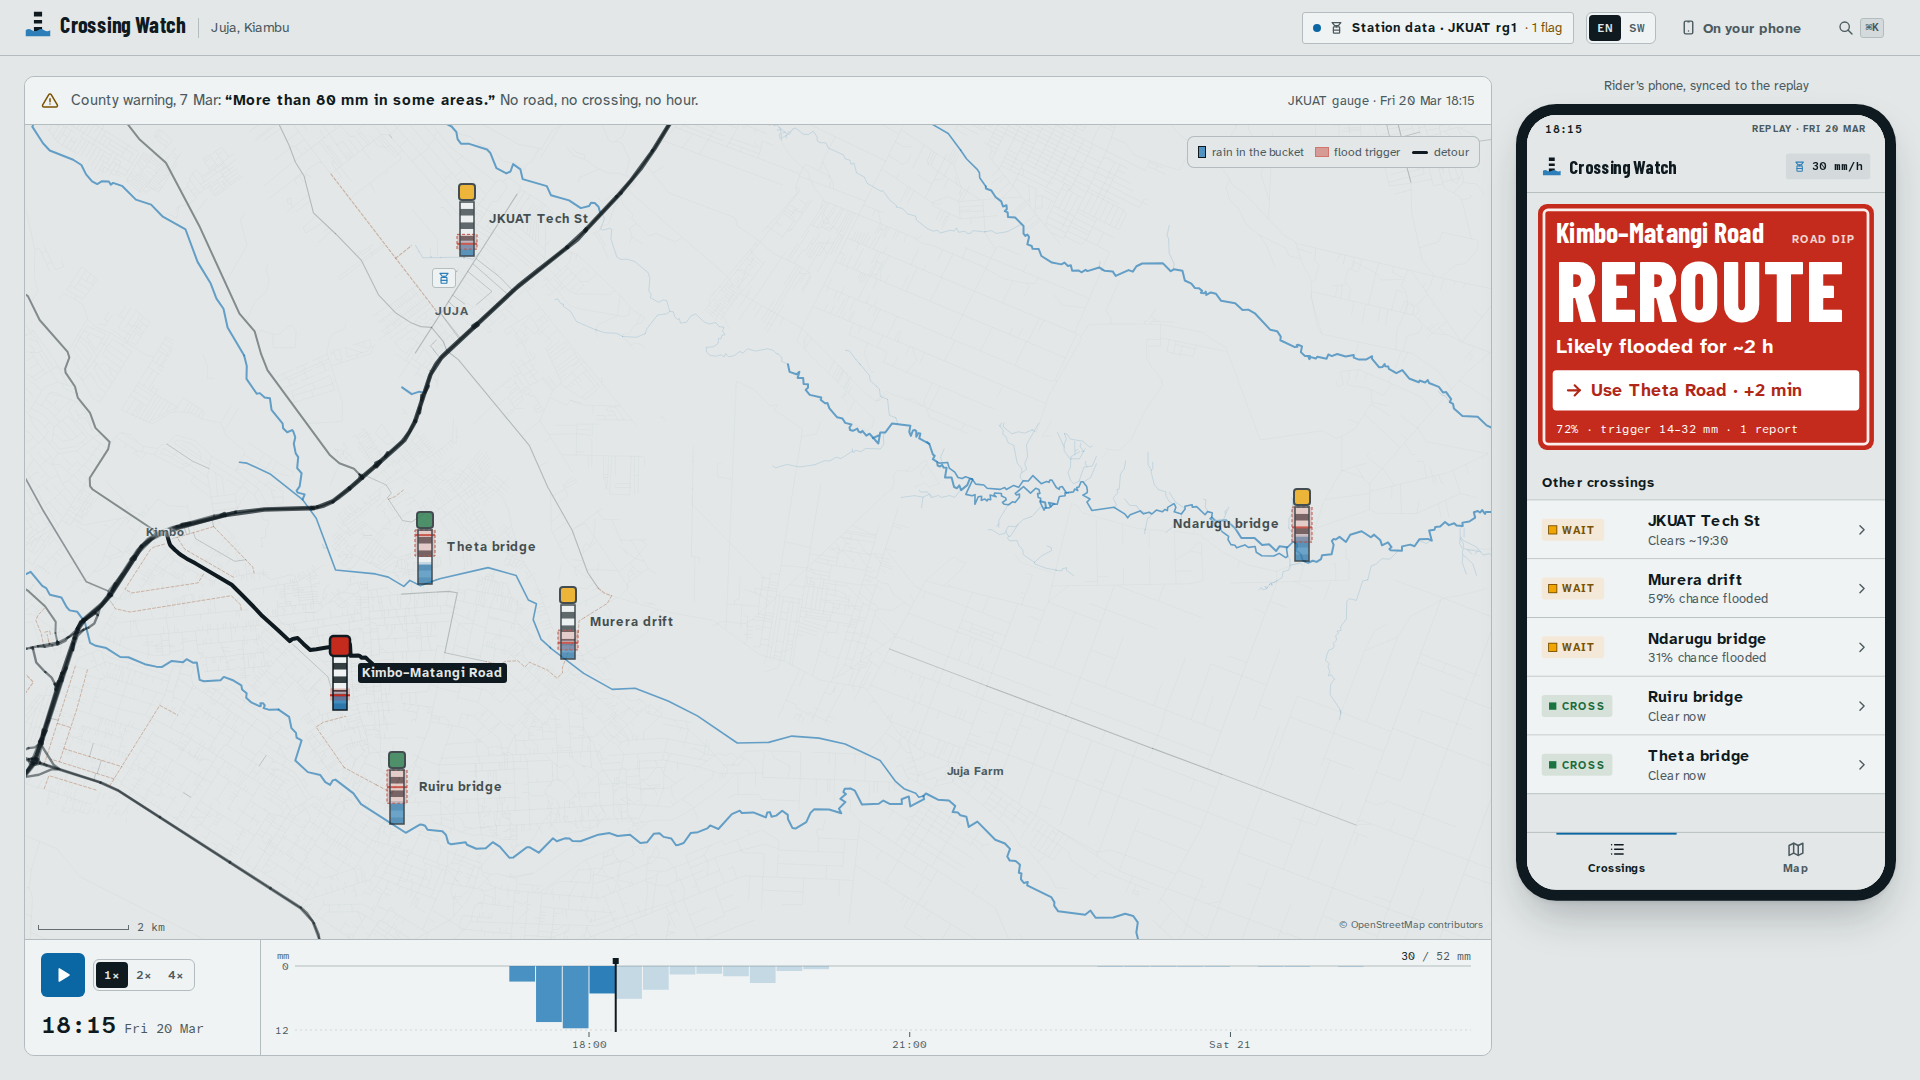
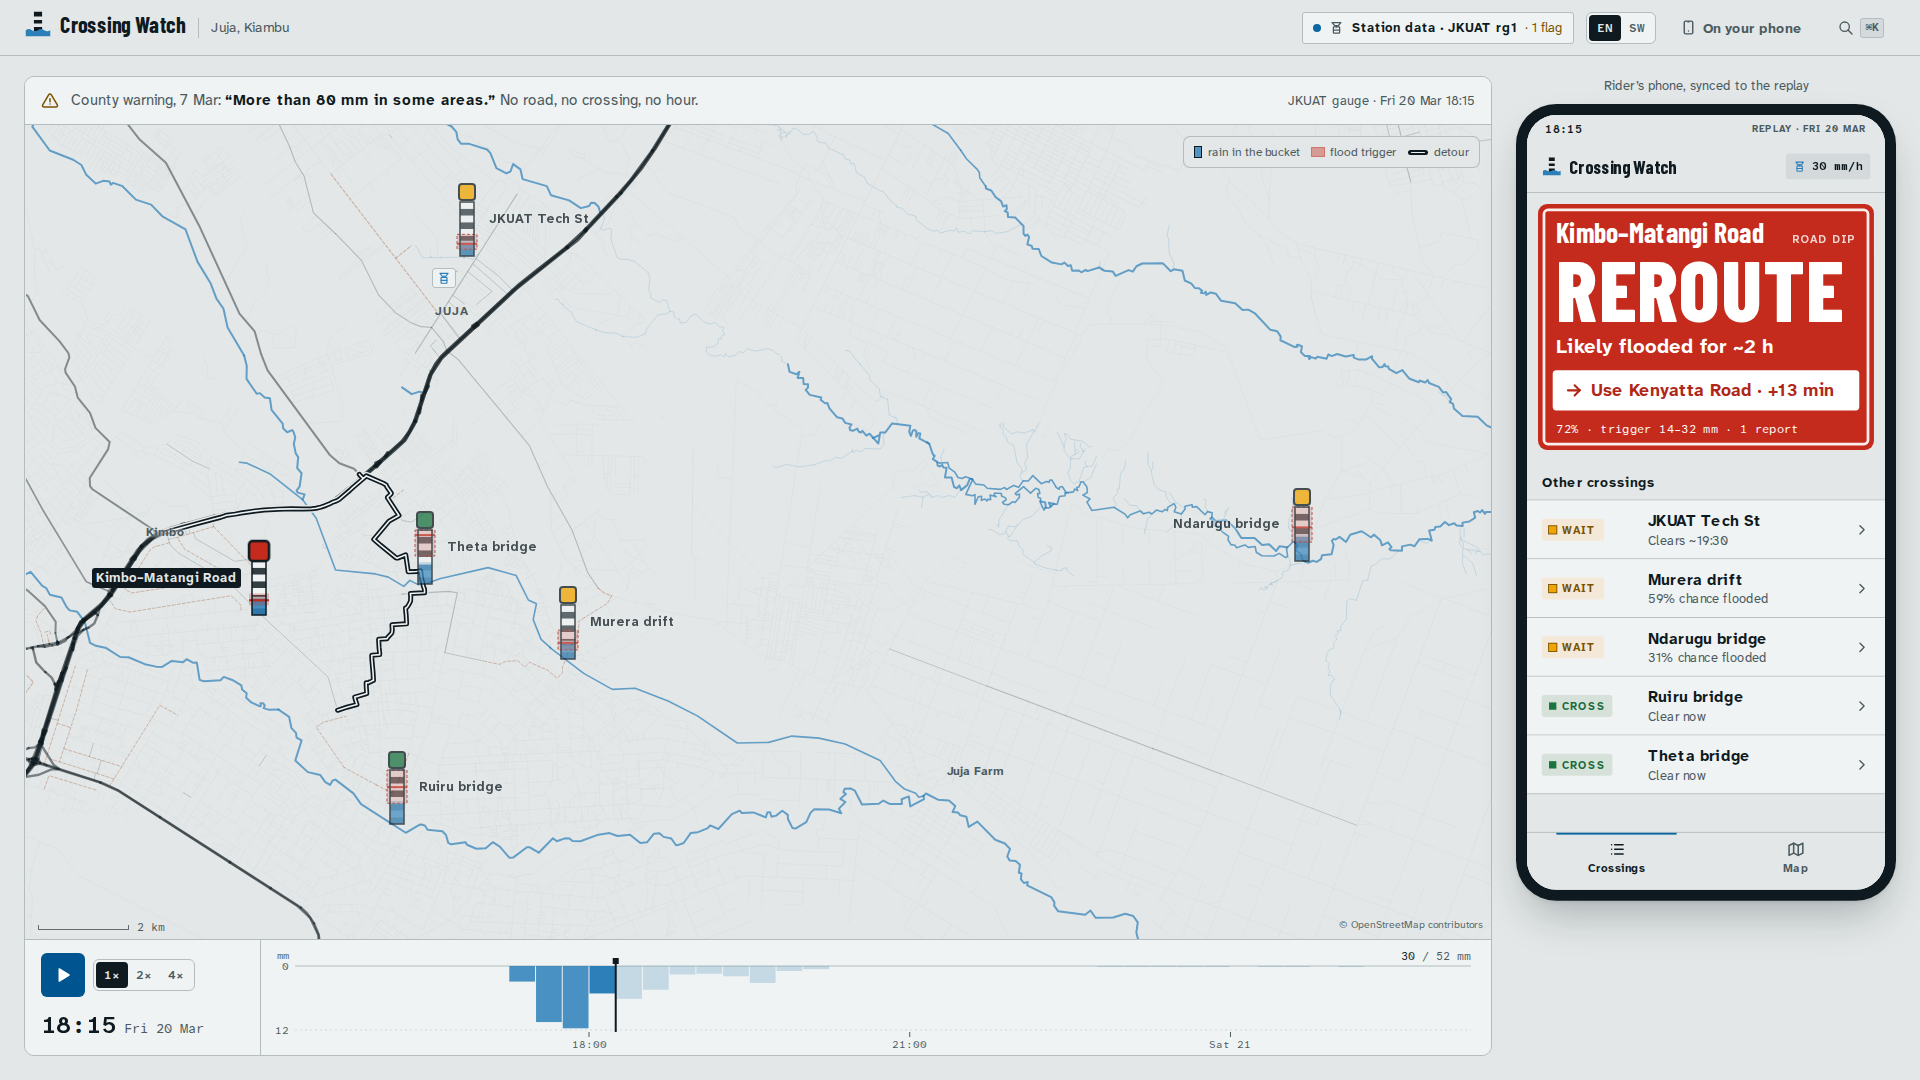
Move Kimbo–Matangi to the reported flood spot; detour via Kenyatta Road
Residents reported the road impassable just past Deliverance Church Theta
(24 Mar 2026), about 2 km from Kimbo, not at the tarmac end. The old
'Theta Road' detour ran through that spot, and no road goes by that name:
locals call Kimbo–Matangi itself the Theta road. The detour now leaves the
road entirely: Thika Road, Kenyatta Road, the Theta bridge, Judah–Magomano
Road (9.5 km, +13 min), and is offered only while that bridge is clear.
The 20 Mar calls are unchanged (REROUTE 18:00, WAIT 20:30, CROSS 21:15).

Also: build-geo takes 'through' waypoints; map labels step aside when
another post is in the way; the detour fades in instead of drawing (the
draw stopped short under non-scaling strokes). The April write-up now says
the road stayed flooded through 28 Apr, so only 21 and 26 Apr are claimed.

diff --git a/components/viz/CrossingMap.tsx b/components/viz/CrossingMap.tsx
@@ -89,11 +89,35 @@ export function CrossingMap({
   const postXY = posts.map((p) => project(p.model.crossing.lon, p.model.crossing.lat));
   const nearPost = (X: number, Y: number) => postXY.some(([px, py]) => Math.abs(px - X) < 70 && Y - py > -52 && Y - py < 16);
 
+  // crossing names go right of their post; left if another post is in the way, below if there's no room left either
+  const box = useRef<HTMLDivElement>(null);
+  const [pxW, setPxW] = useState(0);
+  useEffect(() => {
+    const el = box.current;
+    if (!el) return;
+    const ro = new ResizeObserver(([e]) => setPxW(e.contentRect.width));
+    ro.observe(el);
+    return () => ro.disconnect();
+  }, []);
+  const side = (id: string, X: number, Y: number, text: string): "right" | "left" | "below" => {
+    if ((X - v.x) / v.w > 0.8) return "left";
+    const k = pxW / v.w;
+    if (!k) return "right";
+    const labelW = text.length * 7.6 + 8;
+    const crowded = posts.some((o, j) => {
+      if (o.id === id) return false;
+      const dx = (postXY[j][0] - X) * k;
+      return dx > 0 && dx < labelW + 20 && Math.abs((Y - postXY[j][1]) * k) < 48;
+    });
+    if (!crowded) return "right";
+    return (X - v.x) * k > labelW + 16 ? "left" : "below";
+  };
+
   const scaleKm = 2;
   const barPct = ((scaleKm * UNITS_PER_KM) / v.w) * 100;
 
   return (
-    <div className="relative w-full select-none" style={{ aspectRatio: `${v.w} / ${v.h}` }}>
+    <div ref={box} className="relative w-full select-none" style={{ aspectRatio: `${v.w} / ${v.h}` }}>
       <svg viewBox={`${v.x} ${v.y} ${v.w} ${v.h}`} className="absolute inset-0 size-full" aria-hidden preserveAspectRatio="xMidYMid meet">
         <rect x={v.x} y={v.y} width={v.w} height={v.h} fill="var(--canvas)" />
         {loading ? null : (
@@ -141,9 +165,10 @@ export function CrossingMap({
                     strokeLinecap="round"
                     strokeLinejoin="round"
                     vectorEffect="non-scaling-stroke"
-                    initial={reduce ? false : { pathLength: 0 }}
-                    animate={{ pathLength: 1 }}
-                    transition={{ duration: 0.7, delay: 0.2, ease: [0.77, 0, 0.175, 1] }}
+                    // a fade, not a pathLength draw: dash lengths break under non-scaling strokes and stop the line short
+                    initial={reduce ? false : { opacity: 0 }}
+                    animate={{ opacity: 1 }}
+                    transition={{ duration: 0.4, delay: 0.2, ease: [0.23, 1, 0.32, 1] }}
                   />
                   {/* a white core no road has: this is a route, not a road */}
                   <motion.path
@@ -209,7 +234,9 @@ export function CrossingMap({
         const [X, Y] = project(c.lon, c.lat);
         const sel = p.id === selectedId;
         if (!inView(X, Y)) return null;
-        const flip = (X - v.x) / v.w > 0.8;
+        const text = sel && !compact ? c.name : (c.short ?? c.name);
+        const at = side(p.id, X, Y, text);
+        const flip = at === "left";
         return (
           <button
             key={p.id}
@@ -241,11 +268,12 @@ export function CrossingMap({
             </span>
             <span
               className={cx(
-                "mb-7 whitespace-nowrap rounded-sm px-1 text-[13px] font-bold leading-5 [text-shadow:0_0_2px_var(--canvas),0_0_3px_var(--canvas),0_0_5px_var(--canvas)]",
+                "whitespace-nowrap rounded-sm px-1 text-[13px] font-bold leading-5 [text-shadow:0_0_2px_var(--canvas),0_0_3px_var(--canvas),0_0_5px_var(--canvas)]",
+                at === "below" ? "absolute left-0 top-full mt-1" : "mb-7",
                 sel ? "bg-ink text-canvas [text-shadow:none]" : "text-ink group-hover:underline",
               )}
             >
-              {sel && !compact ? c.name : (c.short ?? c.name)}
+              {text}
             </span>
           </button>
         );

diff --git a/scripts/verify.ts b/scripts/verify.ts
@@ -66,7 +66,7 @@ if (!stationSeries) {
 
   const km1800 = W.at("kimbo-matangi", "2026-03-20T18:00");
   const via = km1800.detourIdx != null ? W.crossings.find((c) => c.id === "kimbo-matangi")!.detours[km1800.detourIdx].via : "";
-  check(km1800.call === "reroute" && via === "Theta Road", "18:00 Kimbo–Matangi: REROUTE via Theta Road", `${km1800.call} via ${via || "-"}`);
+  check(km1800.call === "reroute" && via === "Kenyatta Road", "18:00 Kimbo–Matangi: REROUTE via Kenyatta Road", `${km1800.call} via ${via || "-"}`);
   const dur = (km1800.tClearMin ?? 0) / 60;
   check(dur >= 1.5 && dur <= 2.5, "…and says it clears in about 2 h", `${dur.toFixed(2)} h`);
   check(W.range("kimbo-matangi", "2026-03-20T15:00", "2026-03-20T17:15").every((c) => c.call === "cross"), "Kimbo–Matangi is CROSS before the storm");
@@ -111,8 +111,8 @@ console.log("\n# Held-out: 27 Apr storm, triggers learned on March only, no repo
   const night = firstReroute("2026-04-27T21:00", "2026-04-28T06:00");
   check(night != null, "Kimbo–Matangi goes REROUTE on the night of 27 Apr, before The Star's 28 Apr story", hm(night));
   const before = firstReroute("2026-04-18T00:00", "2026-04-27T21:00");
-  const after = firstReroute("2026-04-28T12:00", "2026-05-01T00:00");
-  check(before == null && after == null, "…and not on the smaller April storms (21, 26 and 28 Apr)");
+  // No check after 04:15 on 28 Apr: the road stayed flooded while the model said CROSS (a stated limitation).
+  check(before == null, "…and not on the two small storms before it (21 and 26 Apr, none reported)");
 }
 
 // ---------- import ----------

diff --git a/components/landing/Landing.tsx b/components/landing/Landing.tsx
@@ -166,7 +166,7 @@ function Proof() {
         <dl className="mt-10 grid grid-cols-1 gap-x-10 gap-y-6 border-t border-line pt-8 text-[16px] leading-snug md:grid-cols-3">
           <div>
             <dt className="font-bold text-ink">Kimbo–Matangi goes red at 18:00</dt>
-            <dd className="mt-1 text-ink-muted">&ldquo;Likely flooded for two and a half hours. Use Theta Road.&rdquo; At 20:30, right on time, the call eases to wait; by 21:15 it&rsquo;s cross.</dd>
+            <dd className="mt-1 text-ink-muted">&ldquo;Likely flooded for two and a half hours. Use Kenyatta Road.&rdquo; At 20:30, right on time, the call eases to wait; by 21:15 it&rsquo;s cross.</dd>
           </div>
           <div>
             <dt className="font-bold text-ink">The campus culvert drains first</dt>
@@ -272,8 +272,8 @@ function Honest() {
   ];
   const unknown = [
     "Triggers start from a single storm. Wide, dashed bands on screen say so, and every tap narrows them.",
-    "The exact flooded spot on Kimbo–Matangi, and the route riders call Theta Road, still need a rider to pin them.",
-    "Drain times are rough. After that April storm it said cross at 04:15, but the road was still waterlogged later that day.",
+    "The flooded spot on Kimbo–Matangi comes from residents' posts, and the detour is the shortest dry route on OpenStreetMap. Riders still need to confirm both.",
+    "Drain times are rough. After that April storm it said cross at 04:15, but the road stayed flooded through 28 April.",
     "No rider survey yet. The Kiswahili copy needs a native speaker's review.",
   ];
   return (

diff --git a/scripts/build-geo.ts b/scripts/build-geo.ts
@@ -295,7 +295,19 @@ interface CrossingCfg {
   id: string;
   lat: number;
   lon: number;
-  detours: { via: string; crossingId?: string; extraMin: number; path?: [number, number][]; computed?: boolean; from?: Pt; to?: Pt; avoidM?: number; km?: number }[];
+  detours: {
+    via: string;
+    crossingId?: string;
+    extraMin: number;
+    path?: [number, number][];
+    computed?: boolean;
+    from?: Pt;
+    to?: Pt;
+    /** waypoints the detour must pass, e.g. a bridge riders would use */
+    through?: Pt[];
+    avoidM?: number;
+    km?: number;
+  }[];
   [k: string]: unknown;
 }
 
@@ -349,7 +361,11 @@ async function main() {
       const a = nearestNode(graph, det.from, avoid);
       const b = nearestNode(graph, det.to, avoid);
       const direct = dijkstra(graph, a, b);
-      const around = dijkstra(graph, a, b, avoid);
+      const stops = [a, ...(det.through ?? []).map((p) => nearestNode(graph, p, avoid)), b];
+      const legs = stops.slice(1).map((s, k) => dijkstra(graph, stops[k], s, avoid));
+      const around = legs.every(Boolean)
+        ? { nodes: legs.flatMap((l, k) => (k ? l!.nodes.slice(1) : l!.nodes)), ways: legs.flatMap((l) => l!.ways), meters: legs.reduce((m, l) => m + l!.meters, 0) }
+        : null;
       if (!direct || !around) {
         console.warn(`no detour for ${c.id} via ${det.via}`);
         continue;

diff --git a/app/opengraph-image.tsx b/app/opengraph-image.tsx
@@ -4,7 +4,7 @@ import { ImageResponse } from "next/og";
 
 export const size = { width: 1200, height: 630 };
 export const contentType = "image/png";
-export const alt = "Crossing Watch: Kimbo–Matangi Road, REROUTE, likely flooded for about 2 hours, use Theta Road";
+export const alt = "Crossing Watch: Kimbo–Matangi Road, REROUTE, likely flooded for about 2 hours, use Kenyatta Road";
 
 const font = (f: string) => readFile(join(process.cwd(), "node_modules/@fontsource", f));
 
@@ -35,7 +35,7 @@ export default async function Image() {
             <span style={{ fontFamily: "Barlow", fontSize: 50 }}>Kimbo–Matangi Road</span>
             <span style={{ fontFamily: "Barlow", fontSize: 128, lineHeight: 0.9, marginTop: 8 }}>REROUTE</span>
             <span style={{ fontSize: 34, marginTop: 14, fontWeight: 700 }}>Likely flooded for ~2 h</span>
-            <div style={{ display: "flex", marginTop: 22, background: "#fff", color: "#B02617", borderRadius: 8, padding: "14px 20px", fontSize: 32, fontWeight: 700 }}>→ Use Theta Road</div>
+            <div style={{ display: "flex", marginTop: 22, background: "#fff", color: "#B02617", borderRadius: 8, padding: "14px 20px", fontSize: 32, fontWeight: 700 }}>→ Use Kenyatta Road</div>
           </div>
         </div>
       </div>

diff --git a/lib/model/model.test.ts b/lib/model/model.test.ts
@@ -106,7 +106,7 @@ describe("decisions", () => {
   const rain = [...new Array(12).fill(0), 2, 5, 9, 12, 10, 8, 5, 3, 2, 1, ...new Array(40).fill(0)];
   const s = series({ A: rain });
   const clean = qc(s);
-  const X = crossing({ detours: [{ via: "Theta Road", crossingId: "theta", extraMin: 7 }] });
+  const X = crossing({ detours: [{ via: "Kenyatta Road", crossingId: "theta", extraMin: 7 }] });
   const THETA = crossing({ id: "theta", name: "Theta", kind: "high-bridge", halfLifeH: 3, priorMedian: 90 });
   const reports: Report[] = [{ id: "r", crossingId: "x", t: T0 - 86_400_000, status: "flooded", source: "seed" }];
 
@@ -116,7 +116,7 @@ describe("decisions", () => {
     expect(calls.slice(0, 12).every((c) => c === "cross")).toBe(true);
     const k = calls.indexOf("reroute");
     expect(k).toBeGreaterThan(12);
-    expect(X.detours[m.x.calls[k].detourIdx!].via).toBe("Theta Road");
+    expect(X.detours[m.x.calls[k].detourIdx!].via).toBe("Kenyatta Road");
     expect(m.theta.calls[k].call).toBe("cross");
     expect(calls.at(-1)).toBe("cross"); // clears again
   });

diff --git a/components/landing/CallRibbons.tsx b/components/landing/CallRibbons.tsx
@@ -31,7 +31,7 @@ export function useLandingWorld() {
 
 const ROWS = [
   { id: "jkuat-culvert", note: "floods first, drains first" },
-  { id: "kimbo-matangi", note: "reroute via Theta Road" },
+  { id: "kimbo-matangi", note: "reroute via Kenyatta Road" },
   { id: "murera-drift", note: "a murram drift on the Thiririka" },
   { id: "ndarugu", note: "slow river: up past midnight" },
 ];

diff --git a/lib/model/types.ts b/lib/model/types.ts
@@ -29,7 +29,7 @@ export interface Series {
 }
 
 export interface Detour {
-  /** road name shown to riders, e.g. "Theta Road" */
+  /** road name shown to riders, e.g. "Kenyatta Road" */
   via: string;
   /** crossing on the detour whose call must be CROSS, if any */
   crossingId?: string;

diff --git a/README.md b/README.md
@@ -12,7 +12,7 @@
 
 | Rider app (`/app`) | What a rider sends to the stage WhatsApp group |
 |---|---|
-| <img src="docs/img/app.png" width="300" alt="Rider app: Kimbo–Matangi Road, REROUTE, likely flooded for about 2 hours, use Theta Road"> | ```Kimbo–Matangi Road: likely FLOODED until about 20:15.```<br>```Use Theta Road · +2 min.```<br>```Rain at JKUAT gauge 1: 30 mm in the last 3 h (18:15, Fri 20 Mar).``` |
+| <img src="docs/img/app.png" width="300" alt="Rider app: Kimbo–Matangi Road, REROUTE, likely flooded for about 2 hours, use Kenyatta Road"> | ```Kimbo–Matangi Road: likely FLOODED until about 20:15.```<br>```Use Kenyatta Road · +13 min.```<br>```Rain at JKUAT gauge 1: 30 mm in the last 3 h (18:15, Fri 20 Mar).``` |
 
 ## The problem, with receipts
 
@@ -59,8 +59,8 @@ flowchart LR
 
 | Claim | Proof |
 |---|---|
-| Works on the real station data | `npm run verify`: on the 20 Mar storm, Kimbo–Matangi goes REROUTE via Theta Road at 18:00 saying it clears in ~2½ h; the call eases to WAIT at 20:30 and is back to CROSS at 21:15. |
-| Calls a storm it never saw | `npm run backtest`: triggers learned on March only, then run on 18–30 Apr with no reports. Kimbo–Matangi goes REROUTE at 23:00 on 27 Apr, 1½ h into a 95 mm night storm. The Star photographed the road flooded on 28 Apr "after heavy rains pounded the area last night". The three smaller April storms (9–24 mm) stay CROSS. |
+| Works on the real station data | `npm run verify`: on the 20 Mar storm, Kimbo–Matangi goes REROUTE via Kenyatta Road at 18:00 saying it clears in ~2½ h; the call eases to WAIT at 20:30 and is back to CROSS at 21:15. |
+| Calls a storm it never saw | `npm run backtest`: triggers learned on March only, then run on 18–30 Apr with no reports. Kimbo–Matangi goes REROUTE at 23:00 on 27 Apr, 1½ h into a 95 mm night storm. The Star photographed the road flooded on 28 Apr "after heavy rains pounded the area last night". The two small storms before it (21 and 26 Apr, ~10 mm, no flooding reported) stay CROSS. When the Theta bridge on the detour starts to rise at 23:30, the call drops to WAIT rather than send riders onto it. |
 | Each crossing has its own signature | Same run: the JKUAT culvert clears at 20:15, Kimbo–Matangi at 21:15, the Ndarugu river at 01:30. |
 | Every tap sharpens it | Same run: one "flooded" tap at Ndarugu narrows its trigger from 28–88 mm to 25–57 mm (45% narrower) and flips WAIT → REROUTE. |
 | Handles broken gauges | The station's `rg1` column under-reports about 17×, so rain is read from its running daily total. Gauge 2's "rain" column is really the light sensor (r = 0.9999 with `si1145_vis`), so it's ignored. See the Data health tab and [ADR 004](docs/adr/004-station-data-and-fallback.md). |
@@ -75,7 +75,8 @@ flowchart LR
 | Flood report that sets Kimbo–Matangi's trigger | **Real**: The Star, 9 Mar 2026, used as "flooded at some point" between the storm and publication. |
 | Other crossings' triggers | **Estimates** by crossing type until someone reports; wide dashed bands say so. |
 | Crossing locations, map, detours | **Real OpenStreetMap geometry**. The exact flooded spot on Kimbo–Matangi is approximate. Detours are shortest paths on OSM roads at boda speed (≈25 km/h). |
-| "Theta Road" | Name from local knowledge; OSM has no road by that name. |
+| Kimbo–Matangi flood spot | **Approximate**: just past Deliverance Church Theta, where residents reported the road impassable (Theta Ward group, 24 Mar 2026). The county drained floodwater from the road on 10 Mar 2026. |
+| Kimbo–Matangi detour | **Computed** on OSM: Thika Road, Kenyatta Road, the Theta bridge, then Judah–Magomano Road (9.5 km, +13 min). It leaves Kimbo–Matangi entirely because the road floods in sections. It is offered only while the Theta bridge is clear. No source names a boda detour. |
 
 ## Run it
 
@@ -120,7 +121,7 @@ Other scripts: `npm test`, `npm run lint`, `npm run typecheck`, `npm run data:ge
 ## Limitations
 
 - Triggers start from a single storm and a single dated news report. They become trustworthy only as riders report. The bands show this honestly.
-- Drain times are set per crossing type, not fitted. In the April test Kimbo–Matangi went back to CROSS at 04:15, but The Star's photos from later on 28 Apr still show standing water: this dip drains slower than the 1.5 h we gave it.
+- Drain times are set per crossing type, not fitted. In the April test Kimbo–Matangi went back to CROSS at 04:15, but the road stayed flooded through 28 Apr (The Star; [Kenyans.co.ke](https://www.kenyans.co.ke/news/122972-heavy-rains-cause-flood-chaos-nairobi-three-feared-dead-across-nairobi), 29 Apr): this dip drains far slower than the 1.5 h we gave it.
 - One gauge serves every crossing; the Ndarugu bridge is 13 km from it.
 - No user survey yet: the next step is a pilot with three boda stages and JKUAT before the October rains.
 - The Swahili copy needs review by a native speaker.

diff --git a/DESIGN.md b/DESIGN.md
@@ -270,7 +270,7 @@ The decision sign has no shadow. It gets its depth from a 3px inset white border
 ## Do's and Don'ts
 
 - Do keep color for meaning. If a color doesn't mean rain, a decision or soil, it's ink or grey.
-- Do write the decision as a verb plus a place: "REROUTE · use Theta Road".
+- Do write the decision as a verb plus a place: "REROUTE · use Kenyatta Road".
 - Do say how sure the call is, in words first ("likely", "may"), then numbers.
 - Don't put the accent blue on a decision sign, or a decision color on a button.
 - Don't use pins, circles or droplet icons for crossings; they are posts.
